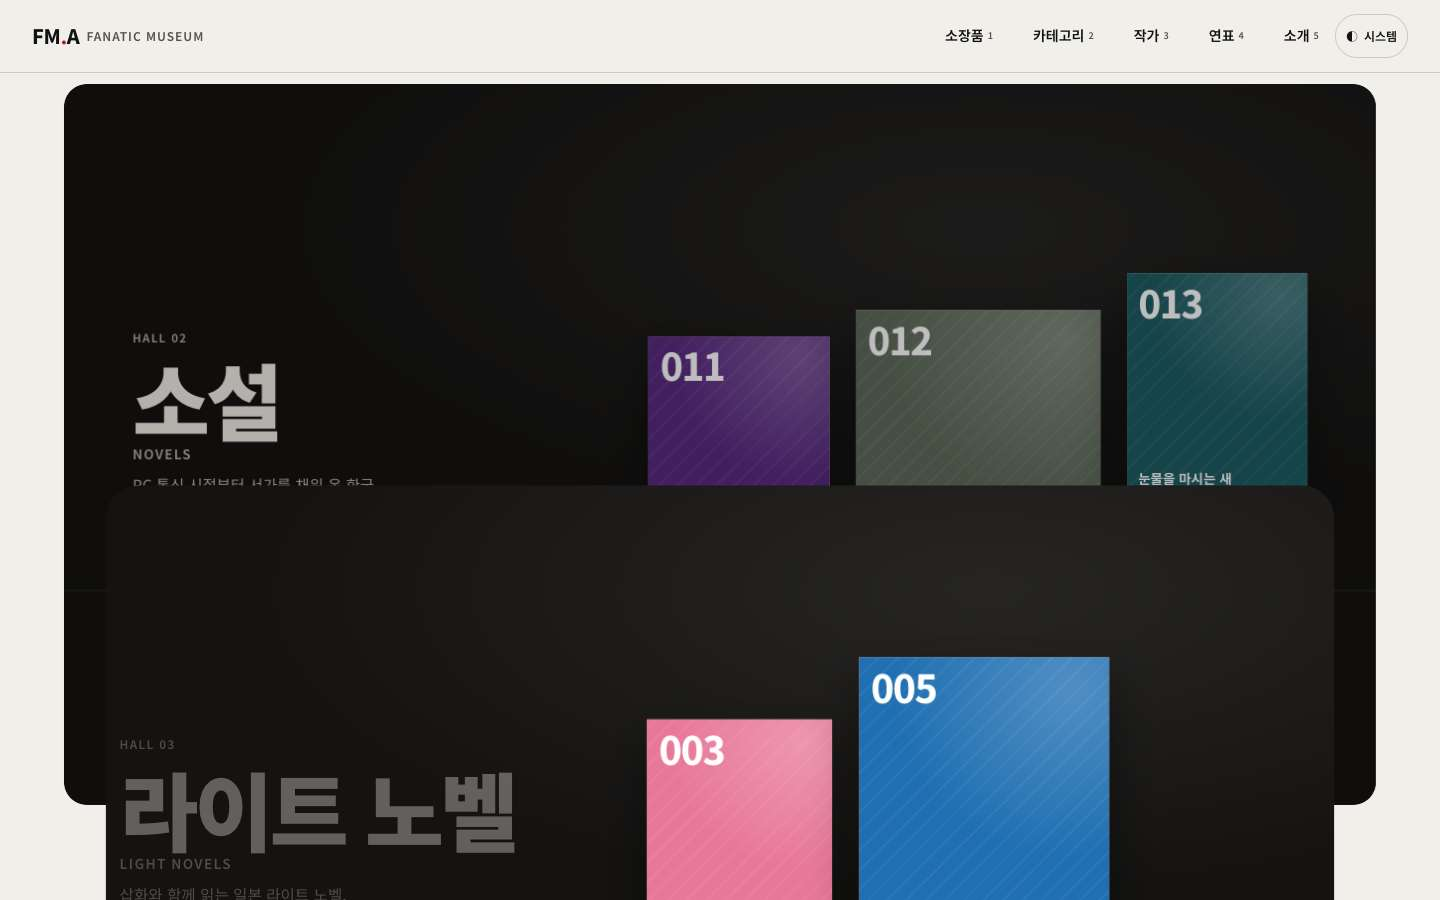
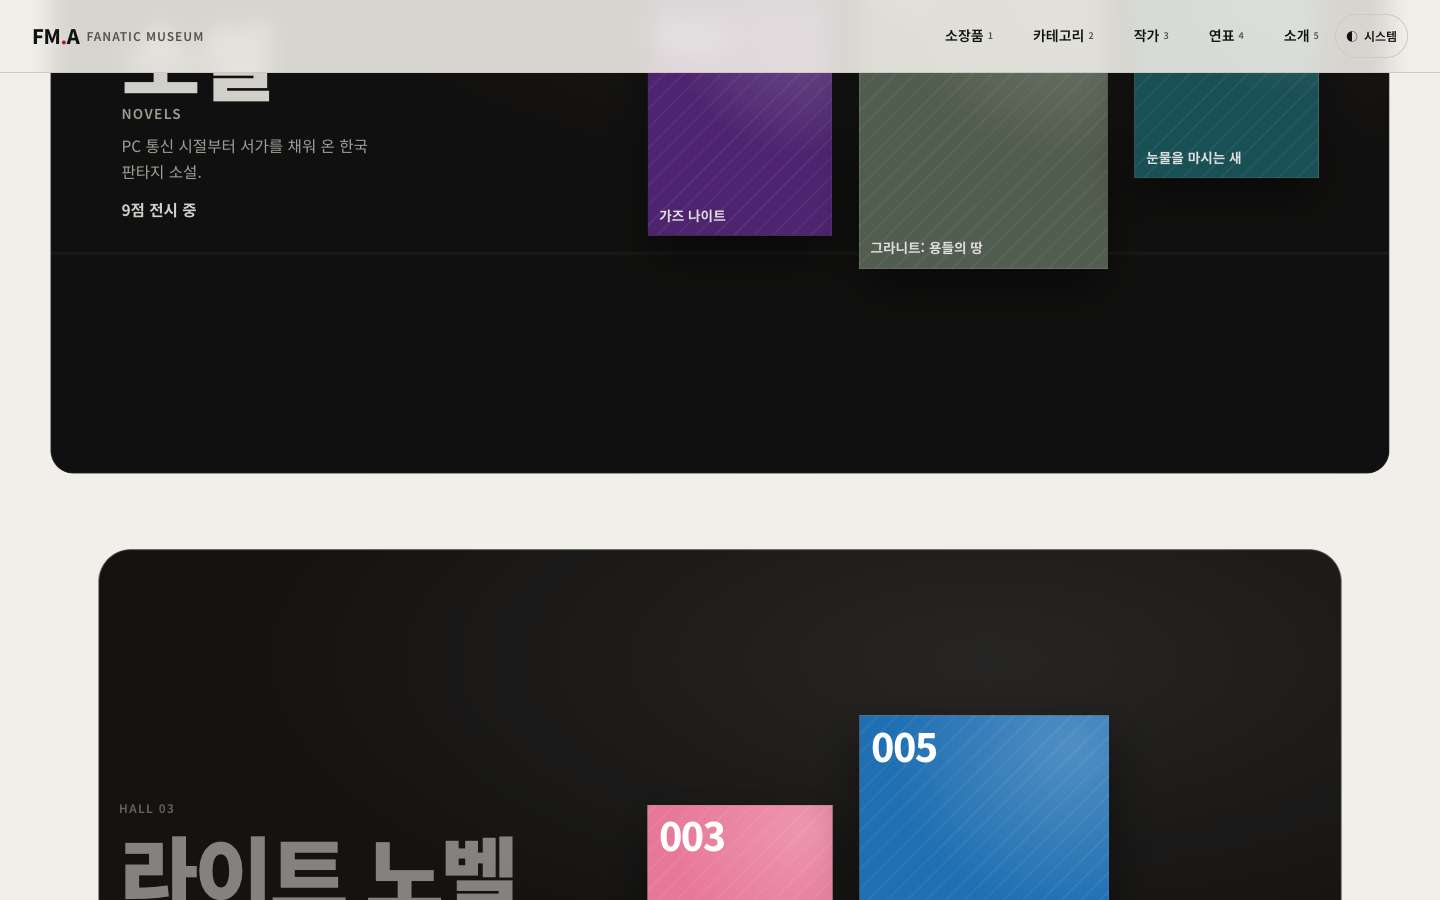
fix: 전시관을 화면에 붙이지 않아 낮은 화면과 큰 글자에서도 내용이 가려지지 않음

diff --git a/src/pages/home/ui/gallery-halls.tsx b/src/pages/home/ui/gallery-halls.tsx
@@ -1,4 +1,3 @@
-import type { CSSProperties } from 'react';
 import { Link } from 'react-router';
 
 import { WorkCover } from '@/entities/work';
@@ -16,13 +15,11 @@ export interface GalleryHallsProps {
 const PIECES = 3;
 
 /**
- * 카테고리를 전시관처럼 한 칸씩 보여 줍니다. 더 현대 서울처럼 큰 공간이 화면을 채우며 펼쳐지고,
- * 다음 전시관이 앞 전시관을 덮으며 넘어갑니다. 움직임은 CSS 스크롤 타임라인으로만 만들고,
- * 지원하지 않거나 동작 줄이기를 켜면 차례로 쌓인 정지 화면입니다.
+ * 카테고리를 전시관처럼 한 칸씩 보여 줍니다. 더 현대 서울처럼 큰 공간이 들어오며 화면을 채우듯 펼쳐지고,
+ * 지나갈 때 작아지며 어두워집니다. 화면에 붙이지 않으므로 화면이 낮거나 글자를 키워도 내용이 가려지지 않습니다.
+ * 움직임은 CSS 스크롤 타임라인으로만 만들고, 지원하지 않거나 동작 줄이기를 켜면 정지 화면입니다.
  */
 export function GalleryHalls({ categories, works }: GalleryHallsProps) {
-  // 앞 전시관은 다음 전시관이 들어오는 만큼 물러나므로, 전시관마다 이름 붙인 타임라인을 목록 전체에 엽니다.
-  const timelines = categories.map((_, i) => `--hall-${i}`);
   return (
     <section className={styles.halls} aria-labelledby="home-categories">
       <div className={`container ${styles.head}`}>
@@ -31,21 +28,11 @@ export function GalleryHalls({ categories, works }: GalleryHallsProps) {
         </h2>
         <p className="label">카테고리별로 걸어 보기</p>
       </div>
-      <ol className={styles.list} style={{ timelineScope: timelines.join(', ') } as CSSProperties}>
+      <ol className={styles.list}>
         {categories.map((category, i) => {
           const pieces = works.filter((w) => w.categories.includes(category.slug)).slice(0, PIECES);
           return (
-            <li
-              key={category.slug}
-              className={styles.hall}
-              data-last={i === categories.length - 1 || undefined}
-              style={
-                {
-                  '--self': timelines[i],
-                  '--next': timelines[i + 1] ?? 'none',
-                } as CSSProperties
-              }
-            >
+            <li key={category.slug} className={styles.hall}>
               <Link
                 to={`/categories/${category.slug}`}
                 className={styles.room}

diff --git a/src/pages/home/ui/gallery-halls.module.css b/src/pages/home/ui/gallery-halls.module.css
@@ -155,7 +155,7 @@
 @keyframes hall-recede {
   to {
     scale: 0.92;
-    filter: brightness(0.55);
+    filter: brightness(0.6);
   }
 }
 
@@ -181,51 +181,32 @@
 
 @supports (animation-timeline: view()) {
   @media (prefers-reduced-motion: no-preference) {
-    .list {
-      gap: 0;
-    }
-
-    /* 전시관마다 화면에 붙어 있다가 다음 전시관이 위를 덮습니다 */
     .hall {
-      position: sticky;
-      top: calc(var(--header-height) + 12px);
-      padding-bottom: 4dvh;
-      view-timeline-name: var(--self);
-      view-timeline-axis: block;
+      view-timeline: --hall block;
     }
 
-    /* 화면에 붙은 동안은 자기 타임라인이 멈추므로, 들어오는 동안 펼치고 다음 전시관이 들어올 때 물러납니다 */
-    /* 붙은 위치에서 패널 전체가 화면 안에 들어와야 들어오기 단계가 끝까지 진행됩니다 */
+    /* 들어오는 동안 펼치고, 나가는 동안 물러납니다. 화면에 붙이지 않아 진행이 멈추지 않습니다 */
     .room {
-      min-height: 0;
-      height: calc(100dvh - var(--header-height) - 12px - 4dvh - 24px);
-      max-height: 760px;
       animation:
         hall-open linear both,
         hall-recede linear both;
-      animation-timeline: var(--self), var(--next);
+      animation-timeline: --hall, --hall;
       animation-range:
-        entry 0% entry 100%,
-        entry 0% entry 100%;
+        entry 0% cover 40%,
+        exit 20% exit 100%;
       transform-origin: 50% 0;
-    }
-
-    .hall[data-last] .room {
-      animation: hall-open linear both;
-      animation-timeline: var(--self);
-      animation-range: entry 0% entry 100%;
     }
 
     .caption {
       animation: caption-rise linear both;
-      animation-timeline: var(--self);
-      animation-range: entry 35% entry 100%;
+      animation-timeline: --hall;
+      animation-range: entry 30% cover 35%;
     }
 
     .piece {
       animation: piece-drift linear both;
-      animation-timeline: var(--self);
-      animation-range: entry 0% entry 100%;
+      animation-timeline: --hall;
+      animation-range: cover 0% cover 100%;
     }
 
     .piece[data-depth='0'] {

diff --git a/README.md b/README.md
@@ -28,9 +28,9 @@
 | ------------------------------------------------------------------------------------------ | ----------------------------------------------------------------------------------- | ------------------------------------------------------------------------------------------ |
 | <img src="docs/images/mobile-home.jpg" alt="모바일 홈의 큰 제목과 두 줄 헤더" width="240"> | <img src="docs/images/mobile-work.jpg" alt="모바일 브레이커 상세 화면" width="240"> | <img src="docs/images/mobile-dark.jpg" alt="어두운 화면의 이영도 작가 페이지" width="240"> |
 
-| 홈 전시관 (스크롤)                                                                                                                                  | 모바일 전시관                                                                                                     |
-| --------------------------------------------------------------------------------------------------------------------------------------------------- | ----------------------------------------------------------------------------------------------------------------- |
-| ![어두운 전시 공간에 소설 전시관이 물러나며 어두워지고, 아래에서 라이트 노벨 전시관이 화면 가득 펼쳐지며 올라오는 장면](docs/images/home-halls.jpg) | <img src="docs/images/mobile-halls.jpg" alt="모바일에서 화면에 붙은 소설 전시관과 대표 소장품 두 점" width="240"> |
+| 홈 전시관 (스크롤)                                                                                                                                     | 모바일 전시관                                                                                                 |
+| ------------------------------------------------------------------------------------------------------------------------------------------------------ | ------------------------------------------------------------------------------------------------------------- |
+| ![위쪽 소설 전시관은 지나가며 작아지고 어두워지고, 아래 라이트 노벨 전시관은 안쪽에서 화면 폭 가득 펼쳐지며 들어오는 장면](docs/images/home-halls.jpg) | <img src="docs/images/mobile-halls.jpg" alt="모바일 화면을 채운 소설 전시관과 대표 소장품 두 점" width="240"> |
 
 | Storybook                                                                  |
 | -------------------------------------------------------------------------- |
@@ -38,15 +38,15 @@
 
 ## 주요 기능
 
-| 메뉴      | 내용                                                                                                   |
-| --------- | ------------------------------------------------------------------------------------------------------ |
-| 홈        | 밀어서 넘기는 전시 띠, 번호순 소장품 목록, 스크롤하면 화면 가득 펼쳐지고 겹쳐 넘어가는 카테고리 전시관 |
-| 소장품    | 제목·원제·줄임말·작가 검색과 분류(여러 개) 필터, 조건을 주소에 남겨 공유                               |
-| 작품 상세 | 만든 사람과 작가 페이지 연결, 전시 메모, 스와이프 갤러리와 크게 보기, 이전·다음 소장품                 |
-| 카테고리  | 게임, 소설, 라이트 노벨, 만화·웹툰, 애니메이션, 피규어, 프라모델                                       |
-| 작가      | 박성우, 박진환, 이경영, 이영도의 소개와 소장품                                                         |
-| 연표      | 처음 나온 해 순서로 따라가는 1987년부터의 대장정                                                       |
-| 정적 API  | `/api/works.json`, `/api/works/{slug}.json`, `/api/categories.json`, `/api/authors.json`               |
+| 메뉴      | 내용                                                                                                       |
+| --------- | ---------------------------------------------------------------------------------------------------------- |
+| 홈        | 밀어서 넘기는 전시 띠, 번호순 소장품 목록, 스크롤하면 화면 가득 펼쳐지고 지나가며 물러나는 카테고리 전시관 |
+| 소장품    | 제목·원제·줄임말·작가 검색과 분류(여러 개) 필터, 조건을 주소에 남겨 공유                                   |
+| 작품 상세 | 만든 사람과 작가 페이지 연결, 전시 메모, 스와이프 갤러리와 크게 보기, 이전·다음 소장품                     |
+| 카테고리  | 게임, 소설, 라이트 노벨, 만화·웹툰, 애니메이션, 피규어, 프라모델                                           |
+| 작가      | 박성우, 박진환, 이경영, 이영도의 소개와 소장품                                                             |
+| 연표      | 처음 나온 해 순서로 따라가는 1987년부터의 대장정                                                           |
+| 정적 API  | `/api/works.json`, `/api/works/{slug}.json`, `/api/categories.json`, `/api/authors.json`                   |
 
 소장품 29점(애니메이션·게임·라이트 노벨·한국 판타지 소설·한국 만화와 웹툰·피규어·프라모델), 라이트·다크·시스템 테마, 키보드와 화면 낭독기 사용을 지원합니다.
 

diff --git a/CHANGELOG.md b/CHANGELOG.md
@@ -2,5 +2,5 @@
 
 | 버전   | 날짜        | 내용                                                                                                                                                                                                                                                                                                                                                                                                                                                             | 비고 |
 | ------ | ----------- | ---------------------------------------------------------------------------------------------------------------------------------------------------------------------------------------------------------------------------------------------------------------------------------------------------------------------------------------------------------------------------------------------------------------------------------------------------------------- | ---- |
-| v1.1.0 | 2026.11.12. | **홈 전시관**<br>- 카테고리 목록을 전시관으로 바꿈: 전시관마다 화면에 붙어 있다가 다음 전시관이 덮으며 넘어가고, 들어올 때 공간이 화면 가득 펼쳐짐<br>- 전시관마다 대표 소장품 세 점(좁은 화면은 두 점)을 높이를 달리해 걸고 스크롤에 따라 따로 움직임<br>- 라이브러리 없이 CSS 스크롤 타임라인으로 만듦. 지원하지 않는 브라우저와 동작 줄이기에서는 차례로 쌓인 정지 화면                                                                                       | N/A  |
+| v1.1.0 | 2026.11.12. | **홈 전시관**<br>- 카테고리 목록을 전시관으로 바꿈: 들어올 때 공간이 화면 가득 펼쳐지고, 지나갈 때 작아지며 어두워짐(화면에 붙이지 않아 화면이 낮거나 글자를 키워도 내용이 가려지지 않음)<br>- 전시관마다 대표 소장품 세 점(좁은 화면은 두 점)을 높이를 달리해 걸고 스크롤에 따라 따로 움직임<br>- 라이브러리 없이 CSS 스크롤 타임라인으로 만듦. 지원하지 않는 브라우저와 동작 줄이기에서는 차례로 쌓인 정지 화면                                                | N/A  |
 | v1.0.0 | 2026.11.11. | **첫 공개**<br>- React Router 8 프레임워크 모드 정적 사전 렌더링, FSD 구조<br>- 소장품 29점, 카테고리 7개, 작가 4명, 대장정 연표<br>- 스와이프 갤러리(APG 캐러셀)와 크게 보기, 검색·분류 필터, 라이트·다크 테마<br>- OpenAPI 문서와 정적 JSON API, Sentry·web-vitals 모니터링<br>- 이미지 다운로드(Yande.re·Safebooru·Steam·교보문고 표지)와 WebP 변환 스크립트<br>- Vitest·Storybook 스토리·Playwright axe E2E, Lighthouse CI·size-limit 예산, CI와 Vercel 배포 | N/A  |

diff --git a/docs/development.md b/docs/development.md
@@ -71,7 +71,7 @@ pnpm build && pnpm preview
 - 갤러리는 WAI-ARIA APG 캐러셀 패턴(자동 넘김 없음)입니다. 터치 스와이프는 CSS scroll-snap이 처리하고, 이전·다음 버튼과 위치 안내(`aria-live`)를 함께 둡니다.
 - 버튼·검색·토글·대화상자는 React Aria Components로 만듭니다.
 - `eslint-plugin-jsx-a11y`(strict)로 코드를 쓸 때 검사하고, E2E에서 모든 페이지를 axe로 검사합니다.
-- 홈 전시관의 움직임은 CSS 스크롤 타임라인(`animation-timeline: view()`)으로만 만듭니다. `@supports`와 `prefers-reduced-motion: no-preference` 안에만 두어, 지원하지 않거나 동작 줄이기를 켜면 정지 화면입니다. 화면에 붙는(sticky) 패널은 붙은 동안 자기 타임라인이 멈추므로, 패널 높이를 화면 안에 맞추고 물러나는 효과는 다음 전시관의 타임라인(`timeline-scope`)에 겁니다.
+- 홈 전시관의 움직임은 CSS 스크롤 타임라인(`animation-timeline: view()`)으로만 만듭니다. `@supports`와 `prefers-reduced-motion: no-preference` 안에만 두어, 지원하지 않거나 동작 줄이기를 켜면 정지 화면입니다. 전시관을 화면에 붙이면(sticky) 붙은 동안 타임라인이 멈추고, 화면이 낮거나 글자를 키웠을 때 내용이 다음 전시관에 가려지므로 붙이지 않습니다.
 
 ## 테스트와 품질
 
